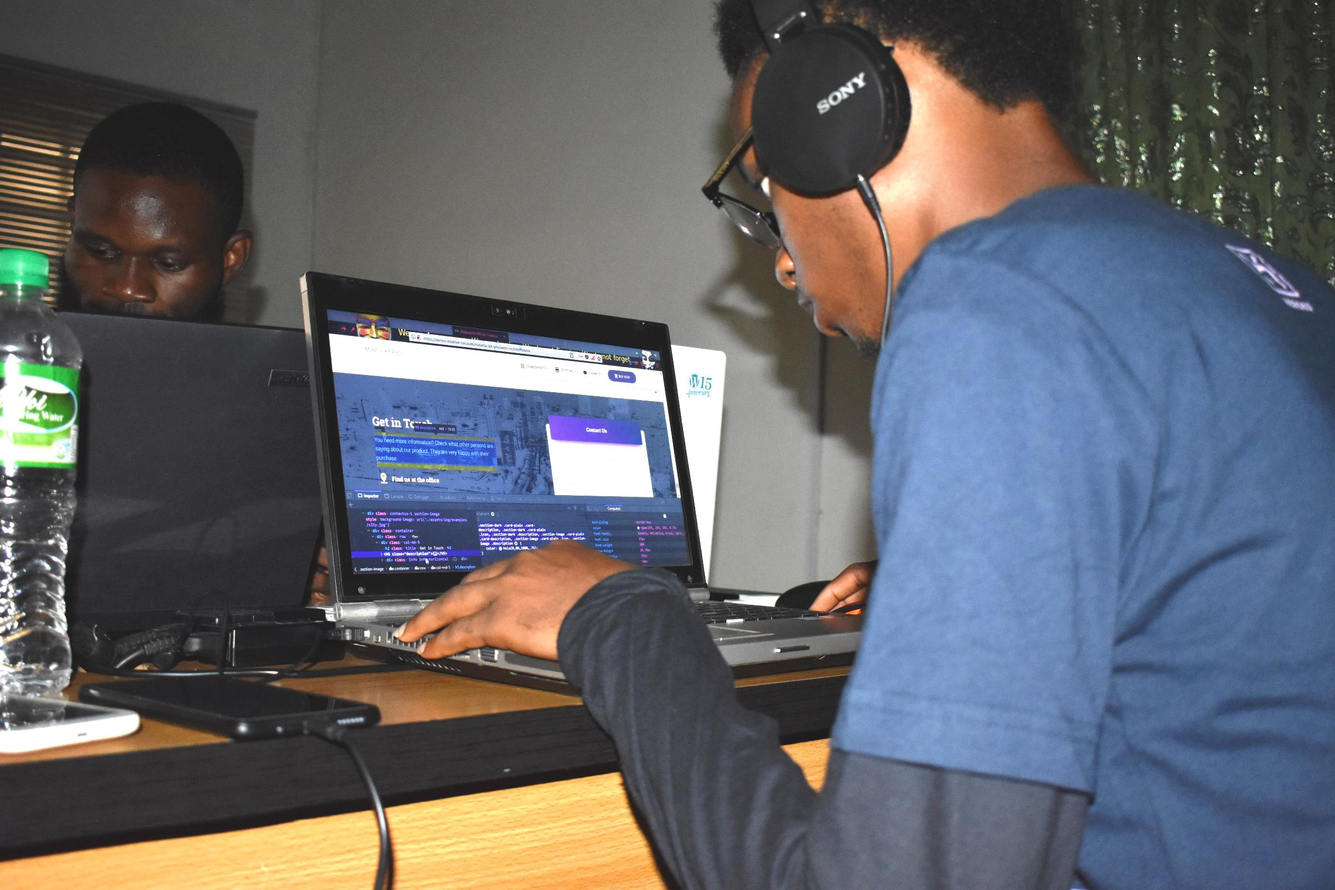
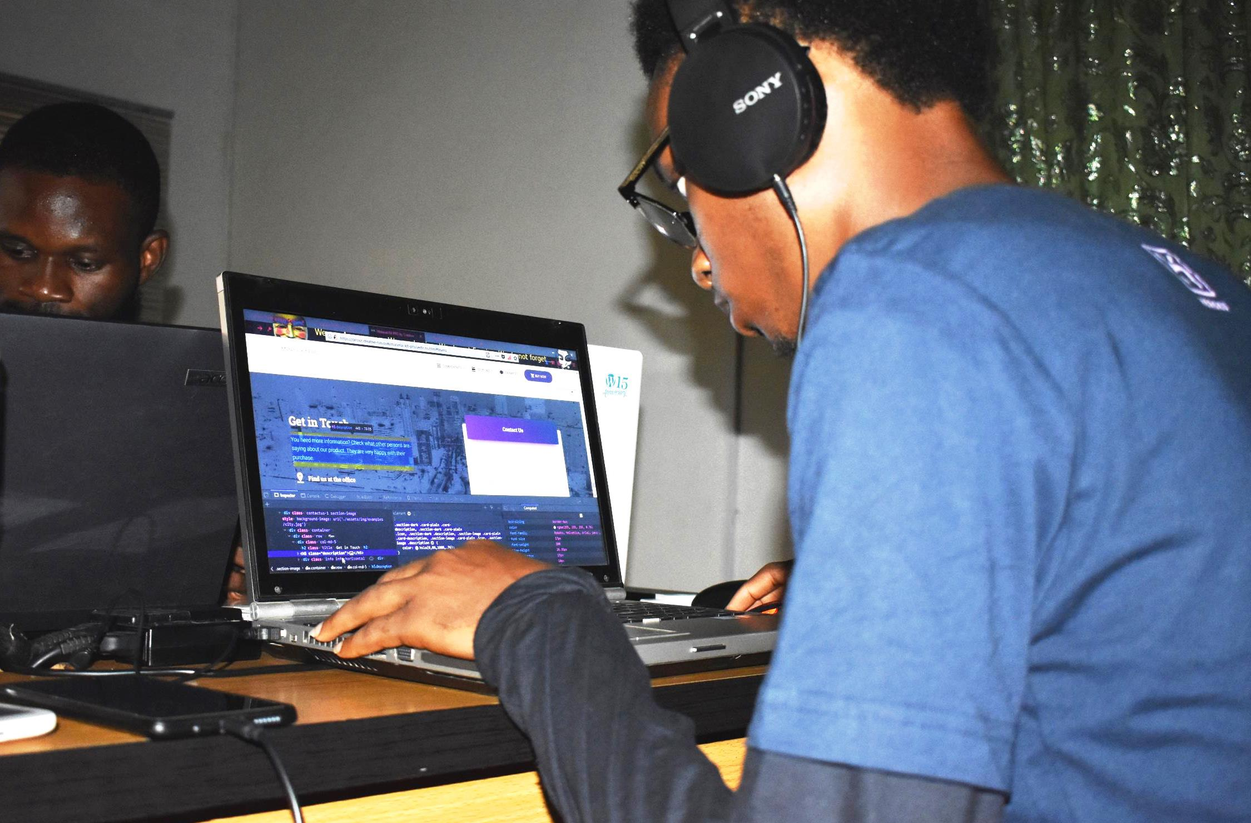
Header section fixed, working on the about section

diff --git a/index.html b/index.html
@@ -16,7 +16,7 @@
     <link href="font/font-awesome/css/font-awesome.css" rel="stylesheet" />
   </head>
 
-  <body>
+  <body id="scrollTop">
     <div class="header-3">
       <nav class="navbar navbar-transparent navbar-absolute navbar-expand-lg">
         <div class="container">
@@ -58,11 +58,11 @@
       </nav>
       <!-- Carousel Card -->
       <div id="carouselExampleIndicators" class="carousel slide" data-ride="carousel">
-        <ol class="carousel-indicators">
+       <!--  <ol class="carousel-indicators">
           <li data-target="#carouselExampleIndicators" data-slide-to="0" class="active"></li>
           <li data-target="#carouselExampleIndicators" data-slide-to="1" class=""></li>
-          <!-- <li data-target="#carouselExampleIndicators" data-slide-to="2" class=""></li> -->
-        </ol>
+          <li data-target="#carouselExampleIndicators" data-slide-to="2" class=""></li>
+        </ol> -->
         <div class="carousel-inner">
           <div class="carousel-item active">
             <div class="page-header header-filter" style="background-image: url('images/banner.jpg');">
@@ -72,7 +72,6 @@
                     <h1 class="title py-0">Godson C. Jnr <br>
                       <span class="font-weight-light py-0">Web UI-UX Designer</span>
                     </h1>
-                    <!-- <h4>Dolce &amp; Gabbana is a luxury Italian fashion house founded in 1985 in Legnano by Italian designers Domenico Dolce and Stefano Gabbana. The two met in Milan in 1980 and designed for the same fashion house.</h4> -->
                     <br>
                     <div class="buttons py-0">
                       <a href="#pablo" class="btn btn-danger btn-lg">
@@ -99,23 +98,6 @@
                 <div class="row">
                   <div class="col-md-8 mr-auto text-left">
                     <h1 class="title">Crafting Awesome Web &amp; Graphic Solutions</h1>
-                    <!-- <h4>Dolce &amp; Gabbana is a luxury Italian fashion house founded in 1985 in Legnano by Italian designers Domenico Dolce and Stefano Gabbana. The two met in Milan in 1980 and designed for the same fashion house.</h4>
-                    <br>
-                    <h6>Connect with us on:</h6> -->
-                    <!-- <div class="buttons">
-                      <a href="#pablo" class="btn btn-just-icon btn-white btn-link btn-lg">
-                        <i class="fa fa-twitter"></i>
-                      </a>
-                      <a href="#pablo" class="btn btn-just-icon btn-white btn-link btn-lg">
-                        <i class="fa fa-facebook-square"></i>
-                      </a>
-                      <a href="#pablo" class="btn btn-just-icon btn-white btn-link btn-lg">
-                        <i class="fa fa-google-plus"></i>
-                      </a>
-                      <a href="#pablo" class="btn btn-just-icon btn-white btn-link btn-lg">
-                        <i class="fa fa-instagram"></i>
-                      </a>
-                    </div> -->
                   </div>
                 </div>
               </div>
@@ -154,18 +136,55 @@
       </div>
       <!-- End Carousel Card -->
     </div>
+
+    <div class="container-fluid about-section py-3" id="about">
+      <div class="container">
+        <div class="section text-center">
+          <div class="row">
+            <div class="col-md-8 ml-auto mr-auto">
+              <h2 class="title text-white">About Me</h2>
+              <h5 class="description">My name is <span class="text-white">Godson Chibuikem Jnr</span>. I'm a self-taught passionate <span class="text-white">Web Designer, Front End Developer.</span> I am currently working as <span class="text-white">a freelancer in Bauchi, Nigeria.</span> Firmly believing that design is first and foremost about solving problems and I'm mostly focused on <span class="text-white">Simplicity, Ergonomics, Responsive Design, Cross-Browser Compatibility and SEO-friendly Code.</span></h5>
+            </div>
+          </div>
+
+            <div class="features">
+              <div class="row">
+                <div class="col-md-10 mt-3 py-1 skills-raised ml-auto mr-auto">
+                  <div class="col-md-6 ml-auto mr-auto">
+                    <h3 class="title">Skills</h3>
+                  </div>
+                  <div class="row">
+                    <div class="col-md-6 py-3 bg-danger">
+                      <h4 class="title text-left">HTML5</h4>
+                      <div class="progress progress-line-primary">
+                        <div class="progress-bar" role="progressbar" aria-valuenow="60" aria-valuemin="0" aria-valuemax="100" style="width: 30%;">
+                          <span class="sr-only">60% Complete</span>
+                        </div>
+                      </div>
+                    </div>
+                    <div class="col-md-6 py-3 bg-info">
+                      
+                    </div>
+                  </div>  
+                </div>
+              </div>
+            </div>
+        </div>
+      </div>
+    </div>
+
     <nav id="cd-vertical-nav">
       <ul>
         <li>
-          <a href="#headers" data-number="1">
+          <a href="#scrollTop" data-number="1">
             <span class="cd-dot"></span>
-            <span class="cd-label">Headers</span>
+            <span class="cd-label">Top</span>
           </a>
         </li>
         <li>
-          <a href="#features" data-number="2">
+          <a href="#about" data-number="2">
             <span class="cd-dot"></span>
-            <span class="cd-label">Features</span>
+            <span class="cd-label">About Me</span>
           </a>
         </li>
         <li>
@@ -216,7 +235,6 @@
   <script src="js/plugins/jquery.easing.min.js" type="text/javascript"></script>
   <script src="js/plugins/scroll.js" type="text/javascript"></script>
   <script src="js/vertical-nav.js" type="text/javascript"></script>
-
   
   <script>
     $(document).ready(function() {

diff --git a/css/cjr.css b/css/cjr.css
@@ -205,3 +205,11 @@
 	margin-top: -10px;
 }
 
+.about-section {
+  background-color: #14141E;
+}
+
+.skills-raised {
+  background-color: #1C1B29;
+  box-shadow: 0 14px 28px rgba(0,0,0,0.25), 0 10px 10px rgba(0,0,0,0.22);
+}

diff --git a/js/plugins/scroll.js b/js/plugins/scroll.js
@@ -34,3 +34,5 @@ $('a[href*="#"]')
       }
     }
   });
+
+  
